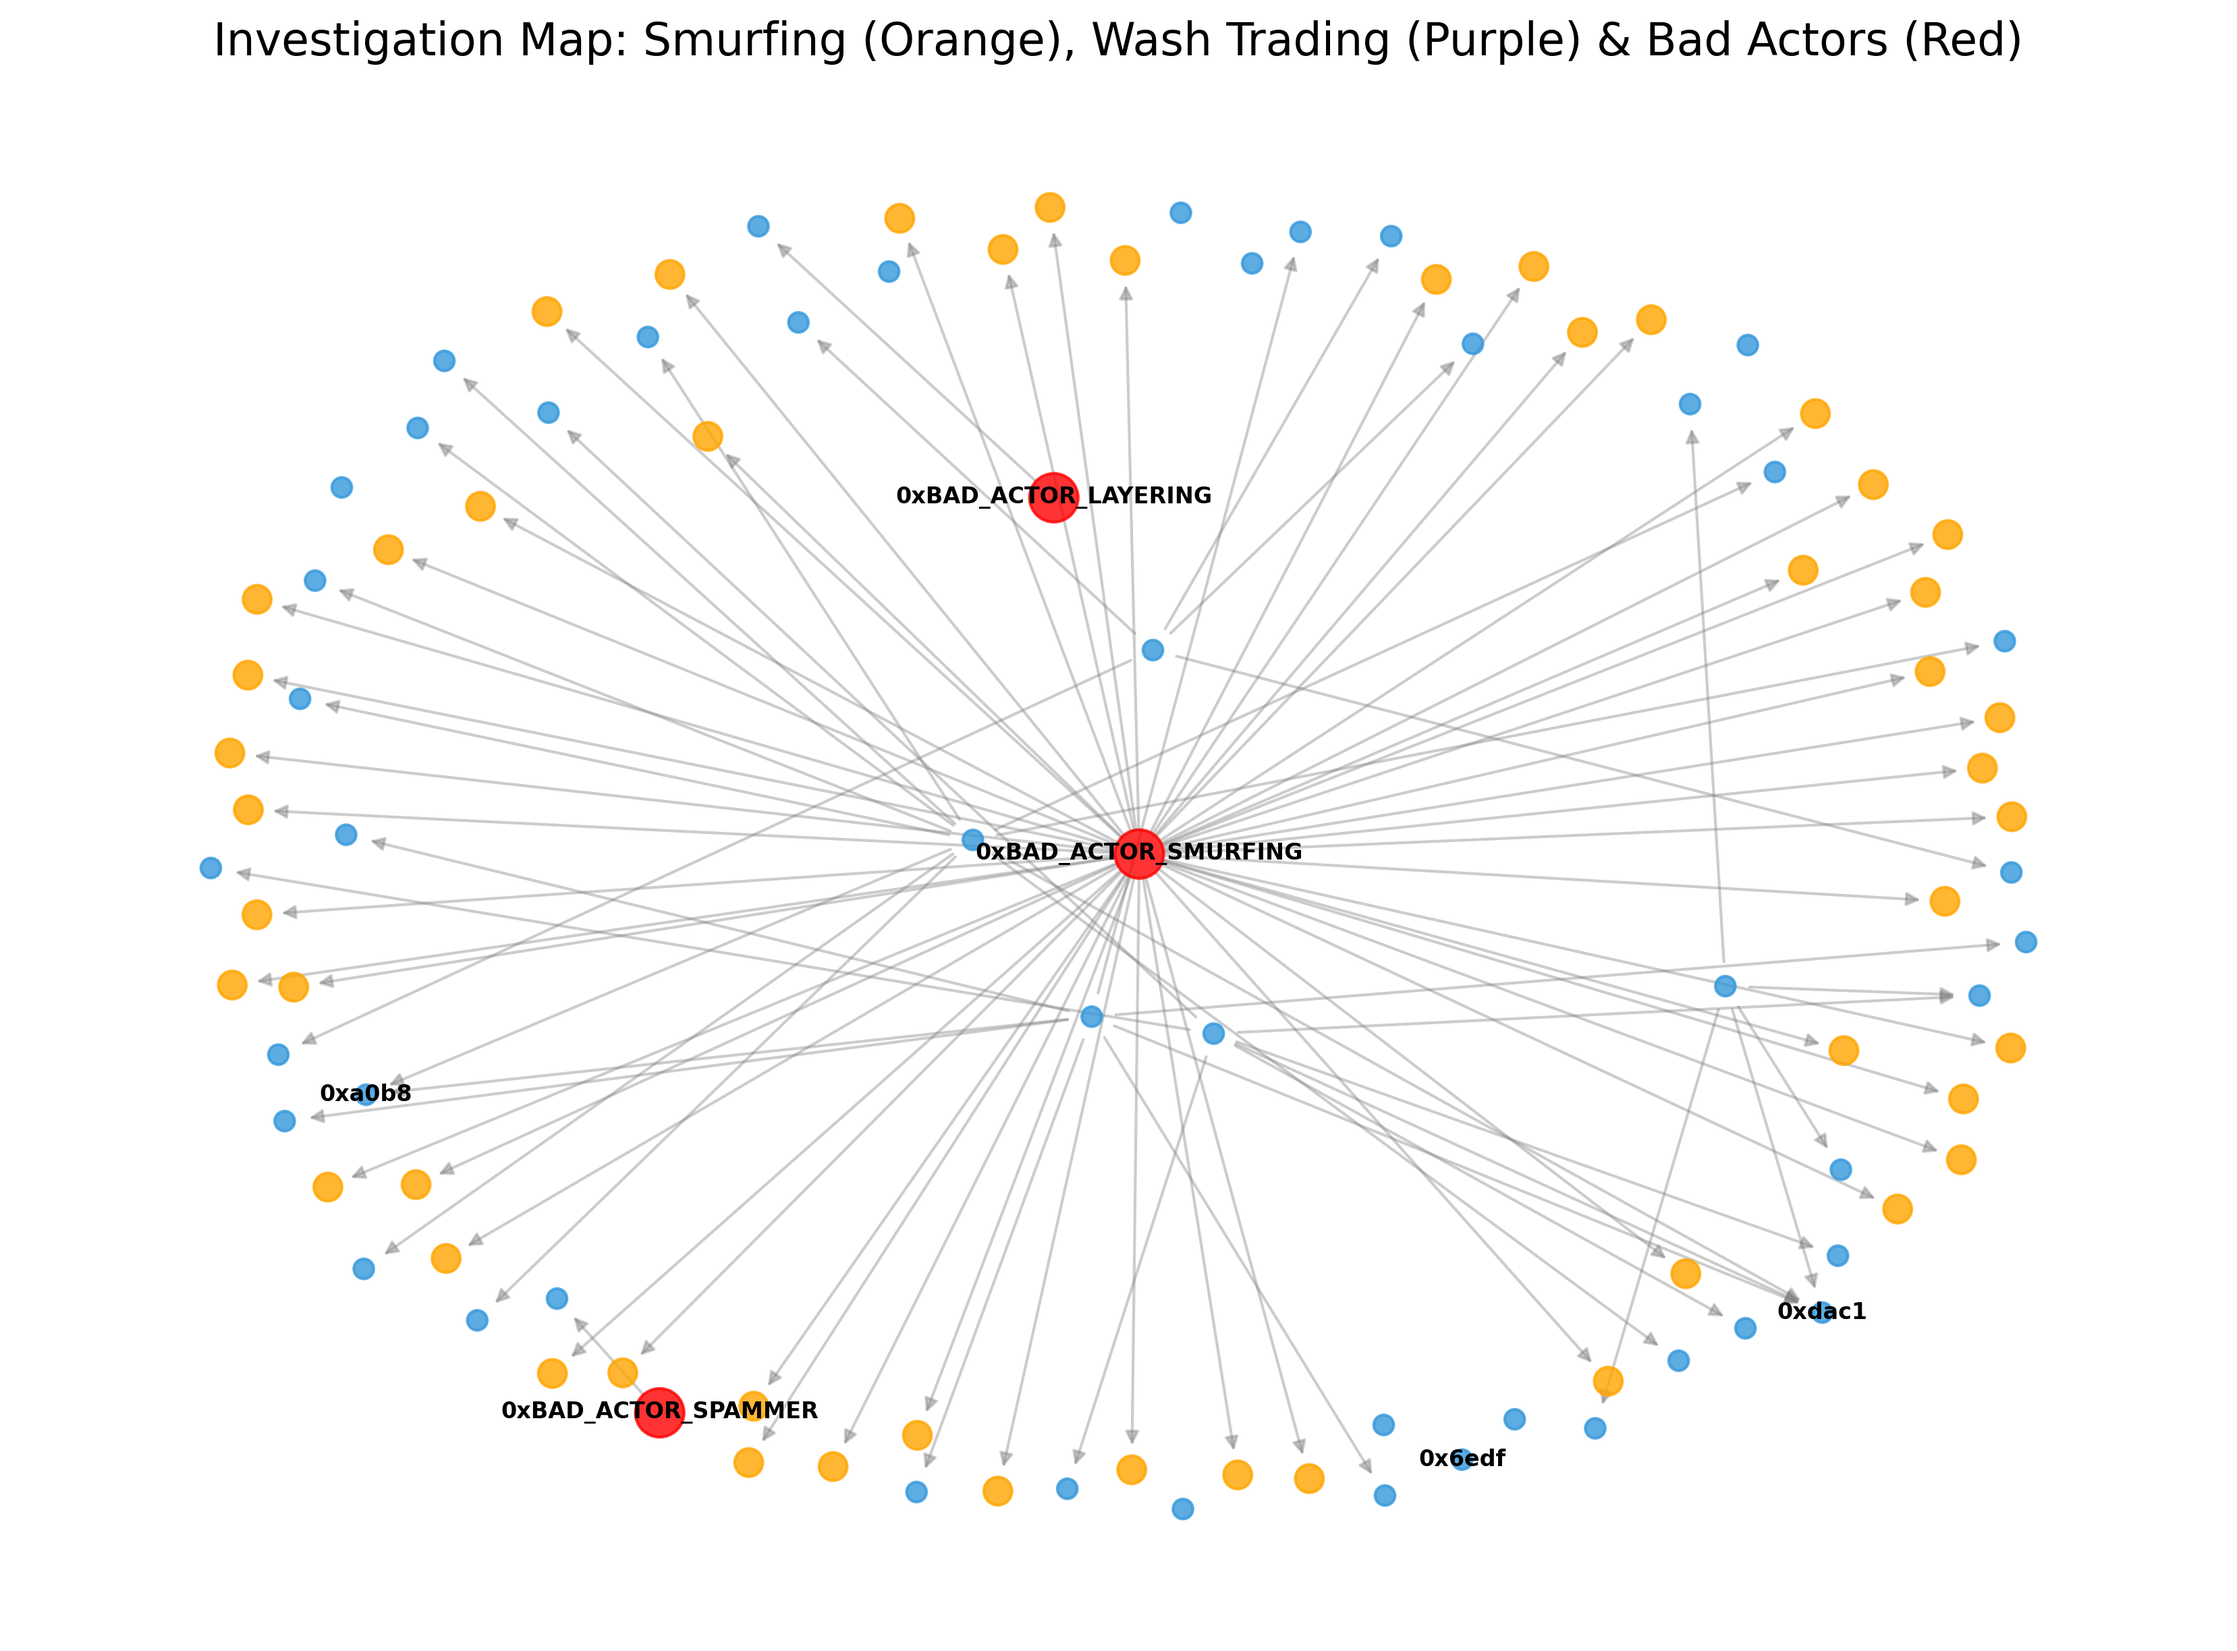
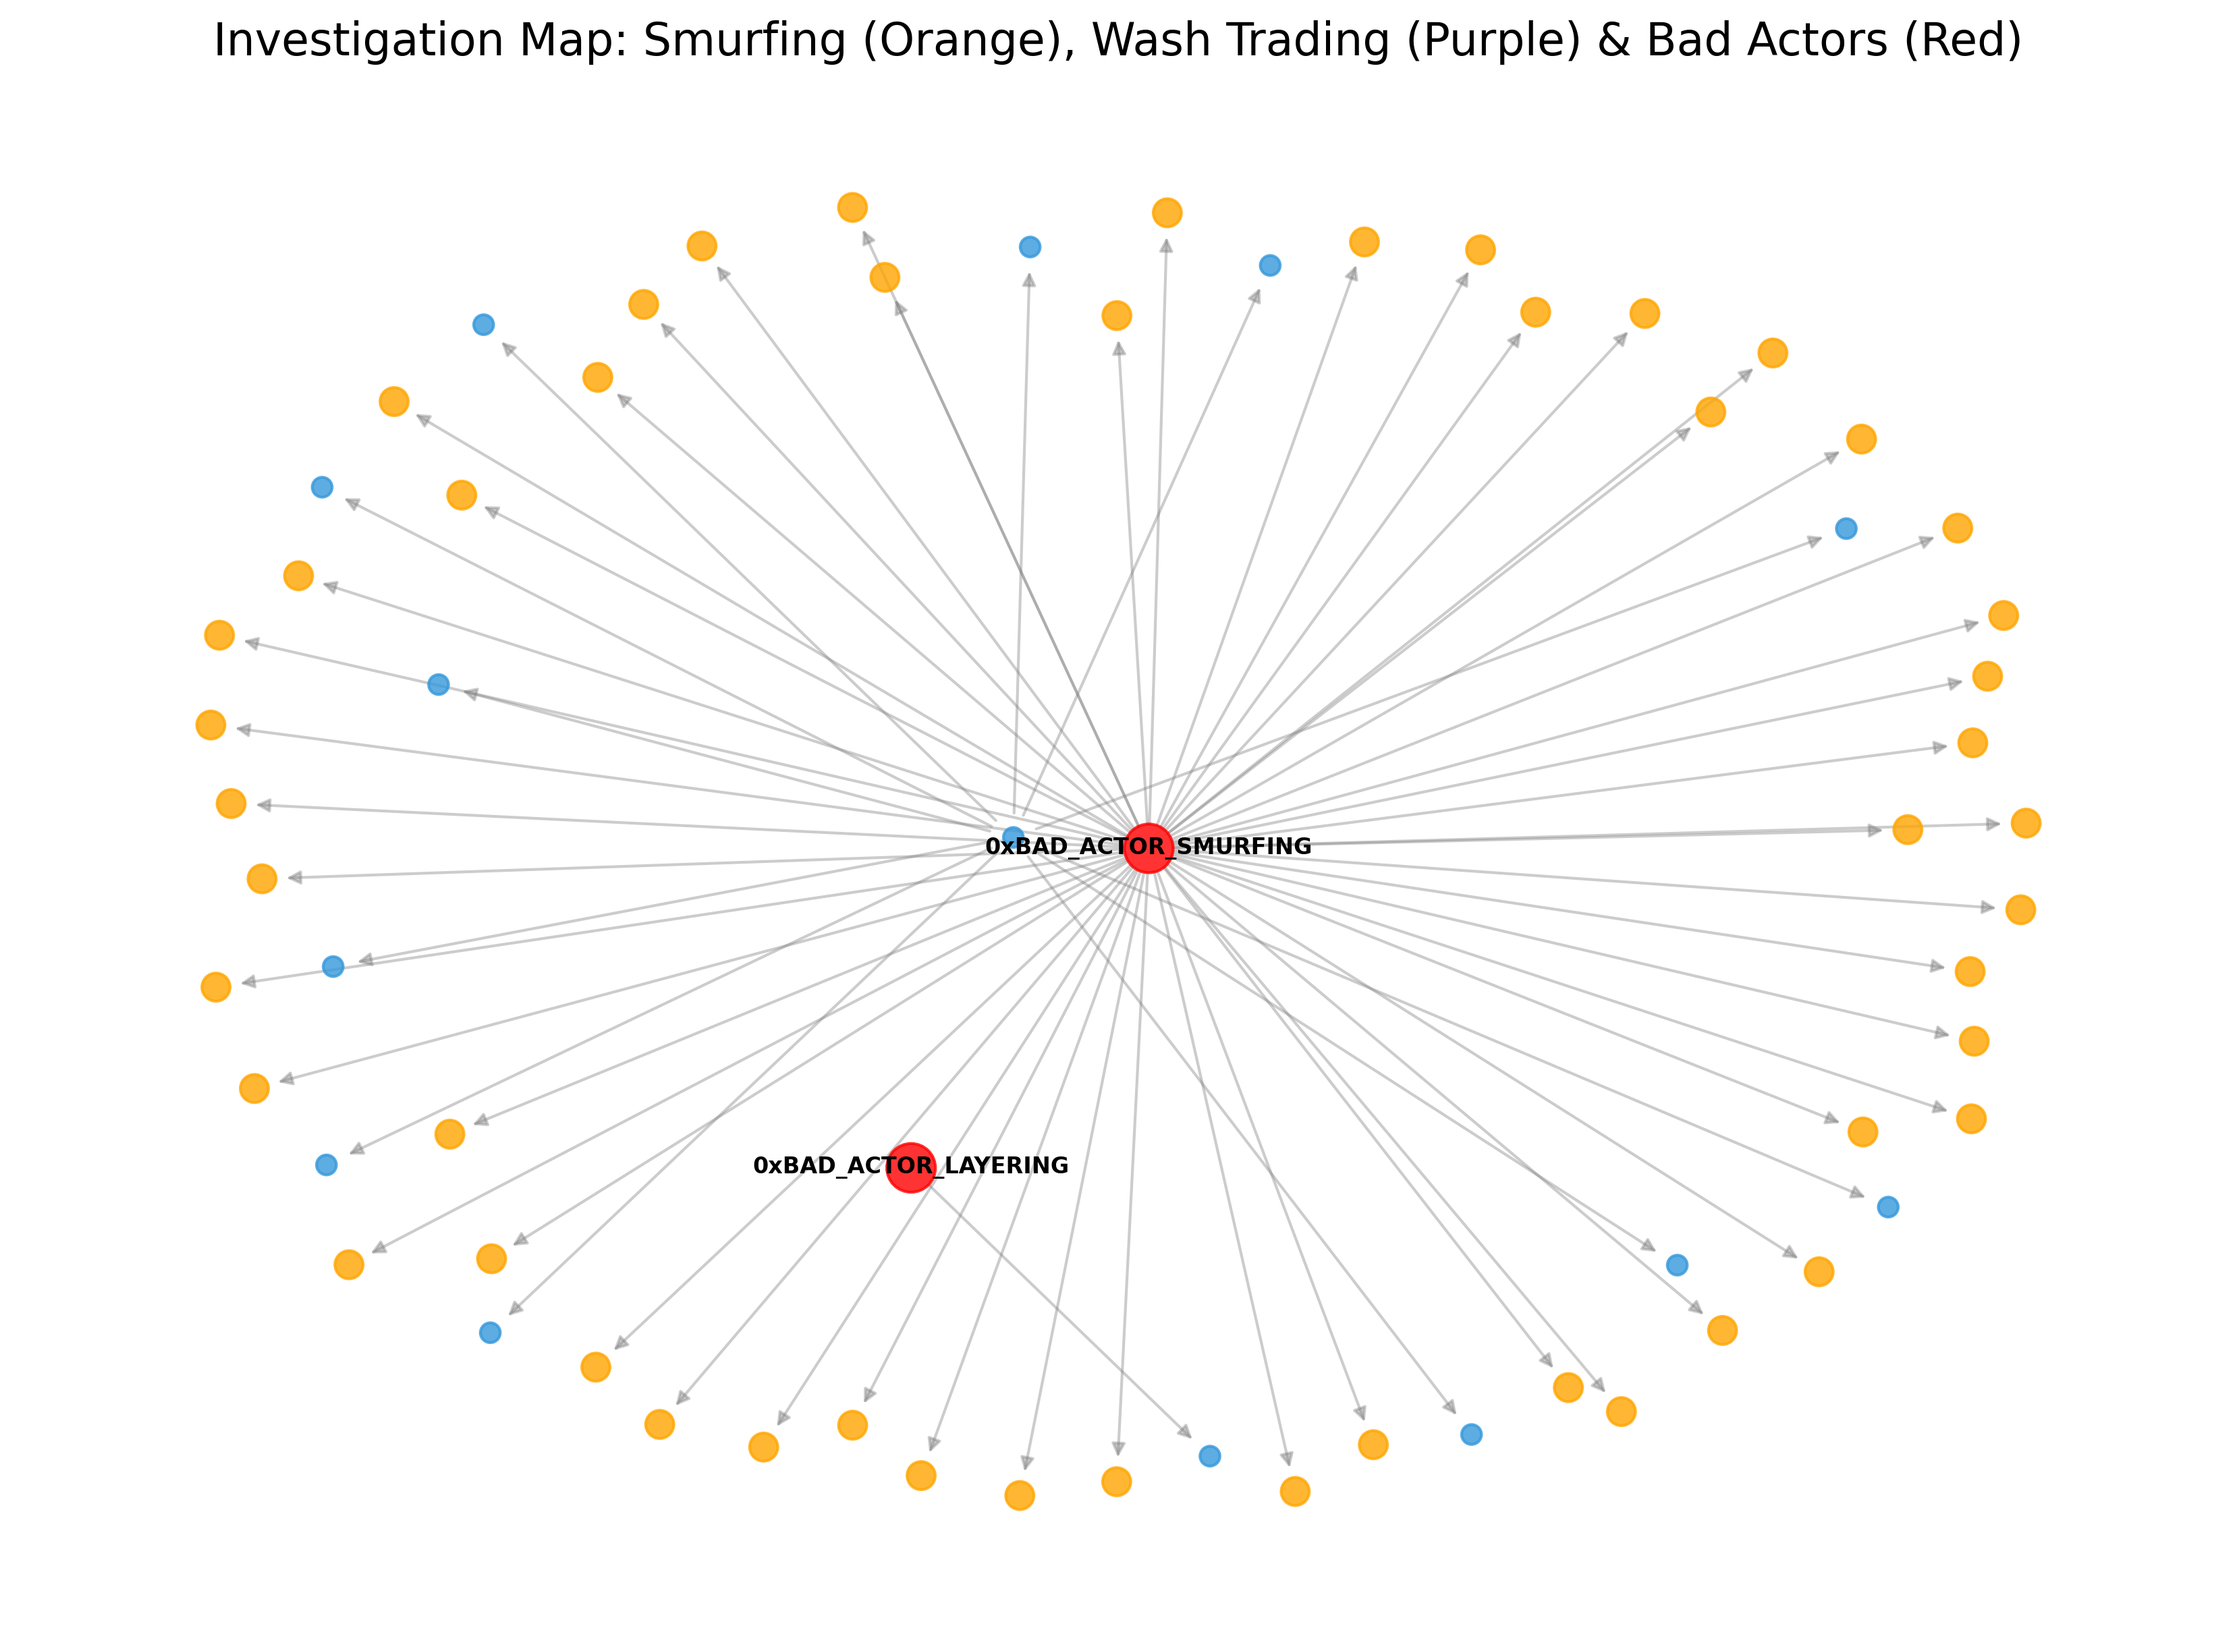
feat: graph src

diff --git a/src/graph_analysis.py b/src/graph_analysis.py
@@ -1,0 +1,243 @@
+import pandas as pd
+import networkx as nx
+import matplotlib.pyplot as plt
+from pathlib import Path
+from typing import Dict, List, Set, Tuple
+
+from src import config
+
+
+def build_transaction_graph(df_tx: pd.DataFrame) -> nx.DiGraph:
+    G = nx.from_pandas_edgelist(
+        df_tx,
+        source='FromAddress',
+        target='ToAddress',
+        edge_attr=['Amount', 'PKID'],
+        create_using=nx.DiGraph()
+    )
+    return G
+
+
+def calculate_centrality_metrics(G: nx.DiGraph) -> Dict[str, int]:
+    degree_dict = dict(G.degree())
+    nx.set_node_attributes(G, degree_dict, 'degree')
+    return degree_dict
+
+
+def detect_communities(G: nx.DiGraph) -> Dict[str, int]:
+    try:
+        import community.community_louvain as community_louvain
+        
+        G_undirected = G.to_undirected()
+        partition = community_louvain.best_partition(G_undirected)
+        nx.set_node_attributes(G, partition, 'community')
+        return partition
+    except ImportError:
+        print("   ⚠ python-louvain not installed. Run: pip install python-louvain")
+        return {}
+    except Exception as e:
+        print(f"   ⚠ Community detection failed: {e}")
+        return {}
+
+
+def detect_wash_trading(G: nx.DiGraph) -> Set[Tuple[str, ...]]:
+    wash_trade_suspects = []
+    cycles = list(nx.simple_cycles(G))
+    
+    for cycle in cycles:
+        if len(cycle) == 2:
+            addr_a = cycle[0]
+            addr_b = cycle[1]
+            wash_trade_suspects.append(sorted((addr_a, addr_b)))
+        elif len(cycle) == 3:
+            wash_trade_suspects.append(sorted(cycle))
+    
+    unique_wash_trades = set(tuple(t) for t in wash_trade_suspects)
+    return unique_wash_trades
+
+
+def detect_mixer_usage(df_tx: pd.DataFrame, round_amounts: List[float]) -> pd.Series:
+    mixer_txs = df_tx[df_tx['Amount'].isin(round_amounts)]
+    mixer_users = mixer_txs['FromAddress'].unique()
+    return mixer_users
+
+
+def filter_important_nodes(
+    G: nx.DiGraph,
+    degree_dict: Dict[str, int],
+    wash_trades: Set[Tuple[str, ...]],
+    high_degree_threshold: int = 5
+) -> Set[str]:
+    important_nodes = set()
+    
+    important_nodes.update([n for n in G.nodes() if "BAD_ACTOR" in n])
+    
+    important_nodes.update([n for n, d in degree_dict.items() if d > high_degree_threshold])
+    
+    for group in wash_trades:
+        important_nodes.update(group)
+    
+    for node in list(important_nodes):
+        try:
+            important_nodes.update(G.neighbors(node))
+        except:
+            pass
+    
+    return important_nodes
+
+
+def prepare_visualization_attributes(
+    H: nx.DiGraph,
+    partition: Dict[str, int],
+    degree_dict: Dict[str, int],
+    wash_trades: Set[Tuple[str, ...]]
+) -> Tuple[List[str], List[int], Dict[str, str]]:
+    node_colors = []
+    node_sizes = []
+    labels = {}
+    
+    smurf_community = partition.get('0xBAD_ACTOR_SMURFING', -1) if partition else -1
+    
+    for node in H.nodes():
+        if "BAD_ACTOR" in node:
+            node_colors.append('red')
+            node_sizes.append(300)
+            labels[node] = node
+        elif partition and partition.get(node) == smurf_community and smurf_community != -1:
+            node_colors.append('orange')
+            node_sizes.append(100)
+        elif any(node in t for t in wash_trades):
+            node_colors.append('purple')
+            node_sizes.append(200)
+        else:
+            node_colors.append('#3498db')
+            node_sizes.append(50)
+        
+        if degree_dict.get(node, 0) > 20 and "BAD_ACTOR" not in node:
+            labels[node] = node[:6]
+    
+    return node_colors, node_sizes, labels
+
+
+def visualize_investigation_graph(
+    H: nx.DiGraph,
+    node_colors: List[str],
+    node_sizes: List[int],
+    labels: Dict[str, str],
+    output_path: Path
+) -> None:
+    pos = nx.spring_layout(H, k=0.5, seed=42)
+    
+    plt.figure(figsize=(14, 10))
+    
+    nx.draw_networkx_nodes(H, pos, node_color=node_colors, node_size=node_sizes, alpha=0.8)
+    nx.draw_networkx_edges(H, pos, alpha=0.4, arrows=True, edge_color='gray')
+    nx.draw_networkx_labels(H, pos, labels=labels, font_size=8, font_weight='bold')
+    
+    plt.title("Investigation Map: Smurfing (Orange), Wash Trading (Purple) & Bad Actors (Red)", fontsize=16)
+    plt.axis('off')
+    
+    output_path.parent.mkdir(parents=True, exist_ok=True)
+    plt.savefig(output_path, dpi=300, bbox_inches='tight')
+    plt.close()
+
+
+def add_graph_flags_to_wallets(
+    df_wallets: pd.DataFrame,
+    wash_trades: Set[Tuple[str, ...]],
+    mixer_users: pd.Series
+) -> pd.DataFrame:
+    wash_trade_wallets = set()
+    for group in wash_trades:
+        wash_trade_wallets.update(group)
+    
+    df_wallets['wash_trading_flag'] = df_wallets.index.isin(wash_trade_wallets)
+    df_wallets['mixer_suspect_flag'] = df_wallets.index.isin(mixer_users)
+    
+    return df_wallets
+
+
+def run_graph_investigation(
+    df_tx: pd.DataFrame,
+    df_wallets: pd.DataFrame,
+    filter_high_risk: bool = True,
+    high_degree_threshold: int = 5
+) -> Tuple[pd.DataFrame, Dict]:
+    print("\n" + "="*70)
+    print("GRAPH INVESTIGATION ENGINE")
+    print("="*70)
+    
+    if filter_high_risk and 'Risk_Level' in df_wallets.columns:
+        high_risk_wallets = df_wallets[
+            df_wallets['Risk_Level'].isin(['HIGH', 'CRITICAL'])
+        ].index
+        df_tx_filtered = df_tx[
+            df_tx['FromAddress'].isin(high_risk_wallets) |
+            df_tx['ToAddress'].isin(high_risk_wallets)
+        ]
+        print(f"Filtered to {len(df_tx_filtered)} transactions involving HIGH/CRITICAL risk wallets")
+    else:
+        df_tx_filtered = df_tx
+        print(f"Analyzing all {len(df_tx_filtered)} transactions")
+    
+    print("\n[1] Building Network Graph...")
+    G = build_transaction_graph(df_tx_filtered)
+    print(f"   Nodes (Wallets): {G.number_of_nodes()}")
+    print(f"   Edges (Txs)    : {G.number_of_edges()}")
+    
+    print("\n[2] Analyzing Network Topology...")
+    degree_dict = calculate_centrality_metrics(G)
+    sorted_degree = sorted(degree_dict.items(), key=lambda x: x[1], reverse=True)
+    print("   Top 5 Most Connected Wallets (Hubs):")
+    for addr, deg in sorted_degree[:5]:
+        role = "🚨 BAD ACTOR" if "BAD_ACTOR" in addr else "User"
+        print(f"     - {addr[:25]}... : {deg} connections [{role}]")
+    
+    print("\n[3] Detecting Communities...")
+    partition = detect_communities(G)
+    if partition:
+        num_communities = len(set(partition.values()))
+        print(f"   Detected {num_communities} Communities (Gang Clusters)")
+    
+    print("\n[4] Running Pattern Recognition...")
+    wash_trades = detect_wash_trading(G)
+    print(f"   🎯 Wash Trading / Round Trips: {len(wash_trades)}")
+    for group in list(wash_trades)[:5]:
+        print(f"     - Cycle: {group}")
+    
+    mixer_users = detect_mixer_usage(df_tx_filtered, config.ROUND_AMOUNTS)
+    print(f"   🎯 Mixer Usage Suspects: {len(mixer_users)}")
+    
+    print("\n[5] Generating Investigation Graph...")
+    important_nodes = filter_important_nodes(G, degree_dict, wash_trades, high_degree_threshold)
+    print(f"   Filtered to {len(important_nodes)} important nodes")
+    
+    H = G.subgraph(list(important_nodes))
+    node_colors, node_sizes, labels = prepare_visualization_attributes(
+        H, partition, degree_dict, wash_trades
+    )
+    
+    output_path = config.FIGURES_DIR / 'investigation_graph_final.png'
+    visualize_investigation_graph(H, node_colors, node_sizes, labels, output_path)
+    print(f"   ✓ Graph saved to {output_path}")
+    
+    print("\n[6] Adding Graph Flags to Wallet Data...")
+    df_wallets = add_graph_flags_to_wallets(df_wallets, wash_trades, mixer_users)
+    
+    results = {
+        'graph': G,
+        'communities': partition,
+        'wash_trades': wash_trades,
+        'mixer_users': mixer_users,
+        'degree_dict': degree_dict
+    }
+    
+    print("\n" + "="*70)
+    print("GRAPH INVESTIGATION COMPLETE")
+    print("="*70)
+    print(f"1. Communities Detected: {len(set(partition.values())) if partition else 0}")
+    print(f"2. Wash Trading Groups: {len(wash_trades)}")
+    print(f"3. Mixer Suspects: {len(mixer_users)}")
+    print(f"4. Visualization saved: {output_path}")
+    
+    return df_wallets, results

diff --git a/graph_investigation.py b/graph_investigation.py
@@ -1,0 +1,86 @@
+#!/usr/bin/env python3
+import pandas as pd
+import argparse
+import warnings
+
+from src import config
+from src.dataset import load_data
+from src.features import engineer_transaction_features
+from src.graph_analysis import run_graph_investigation
+
+warnings.filterwarnings('ignore')
+pd.set_option('display.max_columns', None)
+
+
+def main(filter_high_risk: bool = True, high_degree_threshold: int = 5):
+    print("\n" + "="*70)
+    print("CRYPTOTRACE GRAPH INVESTIGATION - PRODUCTION MODE")
+    print("="*70)
+    
+    print("\n[Loading Data]")
+    df_tx, df_wallet = load_data()
+    df_tx = engineer_transaction_features(df_tx)
+    
+    risk_scored_path = config.RISK_SCORED_CSV_PATH
+    if risk_scored_path.exists():
+        print(f"Loading risk-scored wallets from {risk_scored_path}")
+        df_wallets_scored = pd.read_csv(risk_scored_path, index_col=0)
+    else:
+        print("⚠ Risk scoring not found. Run main.py first!")
+        print("Proceeding with raw wallet data (no risk filtering)...")
+        df_wallets_scored = df_wallet.set_index('Address')
+        filter_high_risk = False
+    
+    df_wallets_with_flags, graph_results = run_graph_investigation(
+        df_tx=df_tx,
+        df_wallets=df_wallets_scored,
+        filter_high_risk=filter_high_risk,
+        high_degree_threshold=high_degree_threshold
+    )
+    
+    output_path = config.PROCESSED_DATA_DIR / 'wallet_with_graph_flags.csv'
+    df_wallets_with_flags.to_csv(output_path)
+    print(f"\n✓ Updated wallet data saved to: {output_path}")
+    
+    print("\n" + "="*70)
+    print("FLAGGED WALLETS SUMMARY")
+    print("="*70)
+    print(f"Wash Trading Suspects: {df_wallets_with_flags['wash_trading_flag'].sum()}")
+    print(f"Mixer Usage Suspects: {df_wallets_with_flags['mixer_suspect_flag'].sum()}")
+    
+    if 'Risk_Level' in df_wallets_with_flags.columns:
+        high_risk_with_patterns = df_wallets_with_flags[
+            (df_wallets_with_flags['Risk_Level'].isin(['HIGH', 'CRITICAL'])) &
+            (df_wallets_with_flags['wash_trading_flag'] | df_wallets_with_flags['mixer_suspect_flag'])
+        ]
+        print(f"\nHIGH/CRITICAL Risk + Pattern Flags: {len(high_risk_with_patterns)}")
+        if len(high_risk_with_patterns) > 0:
+            print("\nTop Suspects:")
+            print(high_risk_with_patterns[['FINAL_RISK_SCORE', 'Risk_Level', 
+                                           'wash_trading_flag', 'mixer_suspect_flag']].head(10))
+    
+    return df_wallets_with_flags, graph_results
+
+
+if __name__ == "__main__":
+    parser = argparse.ArgumentParser(description="CryptoTrace Graph Investigation")
+    parser.add_argument(
+        "--all",
+        action="store_true",
+        help="Analyze all wallets (default: only HIGH/CRITICAL risk)"
+    )
+    parser.add_argument(
+        "--degree-threshold",
+        type=int,
+        default=5,
+        help="Minimum degree for hub detection (default: 5)"
+    )
+    
+    args = parser.parse_args()
+    
+    filter_high_risk = not args.all
+    
+    df_wallets_with_flags, graph_results = main(
+        filter_high_risk=filter_high_risk,
+        high_degree_threshold=args.degree_threshold
+    )
